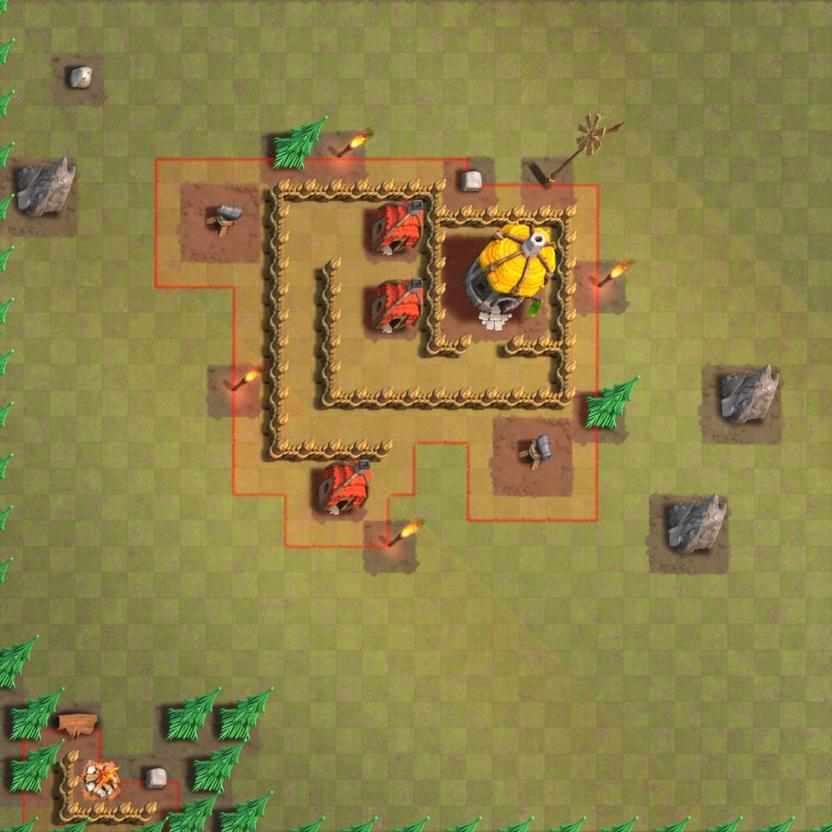
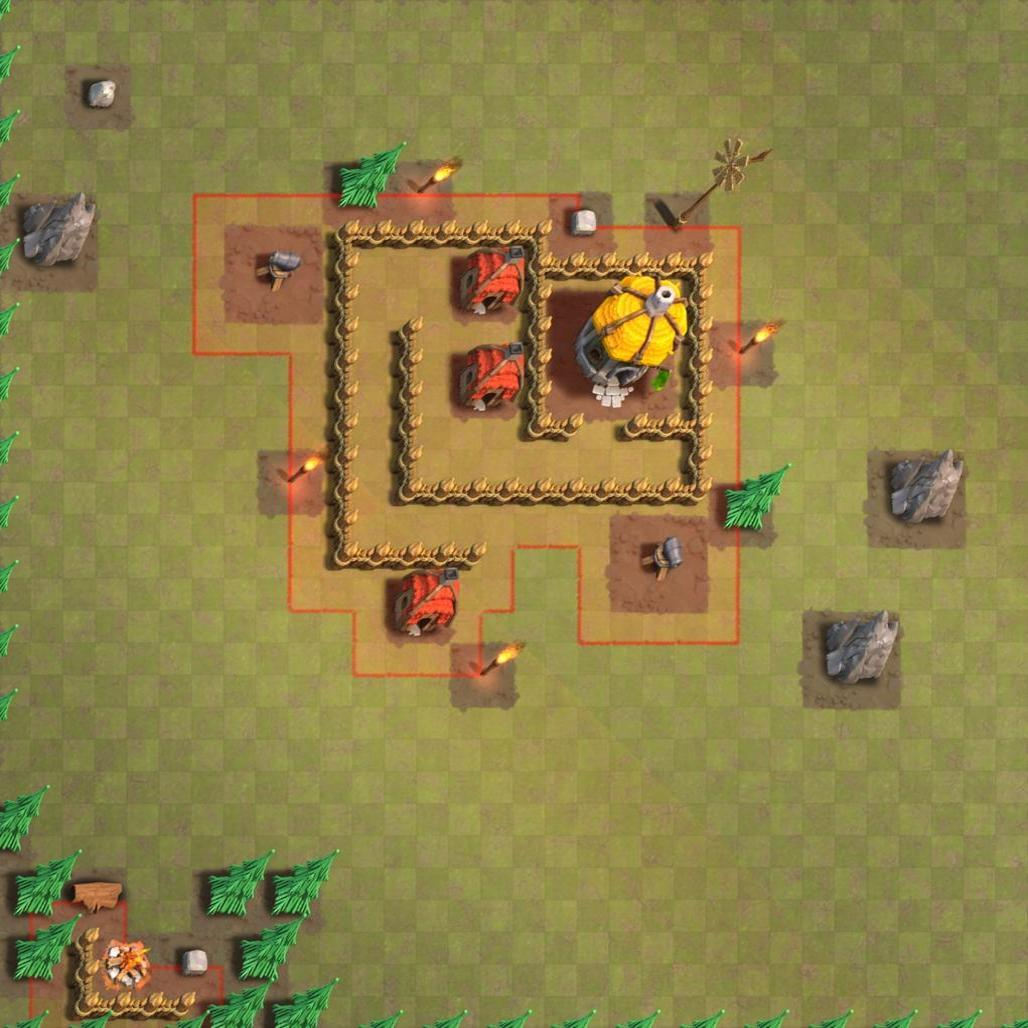
Save square base image in best resolution

diff --git a/cocsim/map_editor_gui/main_window.py b/cocsim/map_editor_gui/main_window.py
@@ -324,11 +324,14 @@ class MainWindow:
                 self.image_end_x_variable.get() + 1,
                 self.image_end_y_variable.get() + 1,
             )
-        ).resize((CANVAS_SIZE, CANVAS_SIZE))
+        )
+        image_size = max(self.cropped_image.size)
+        self.cropped_image = self.cropped_image.resize((image_size, image_size))
+        resized_image = self.cropped_image.resize((CANVAS_SIZE, CANVAS_SIZE))
 
         self.canvas.delete(self.base_image_id)
         del self.tk_image
-        self.tk_image = PIL.ImageTk.PhotoImage(self.cropped_image)
+        self.tk_image = PIL.ImageTk.PhotoImage(resized_image)
         self.base_image_id = self.canvas.create_image(
             0, 0, image=self.tk_image, anchor=NW
         )
